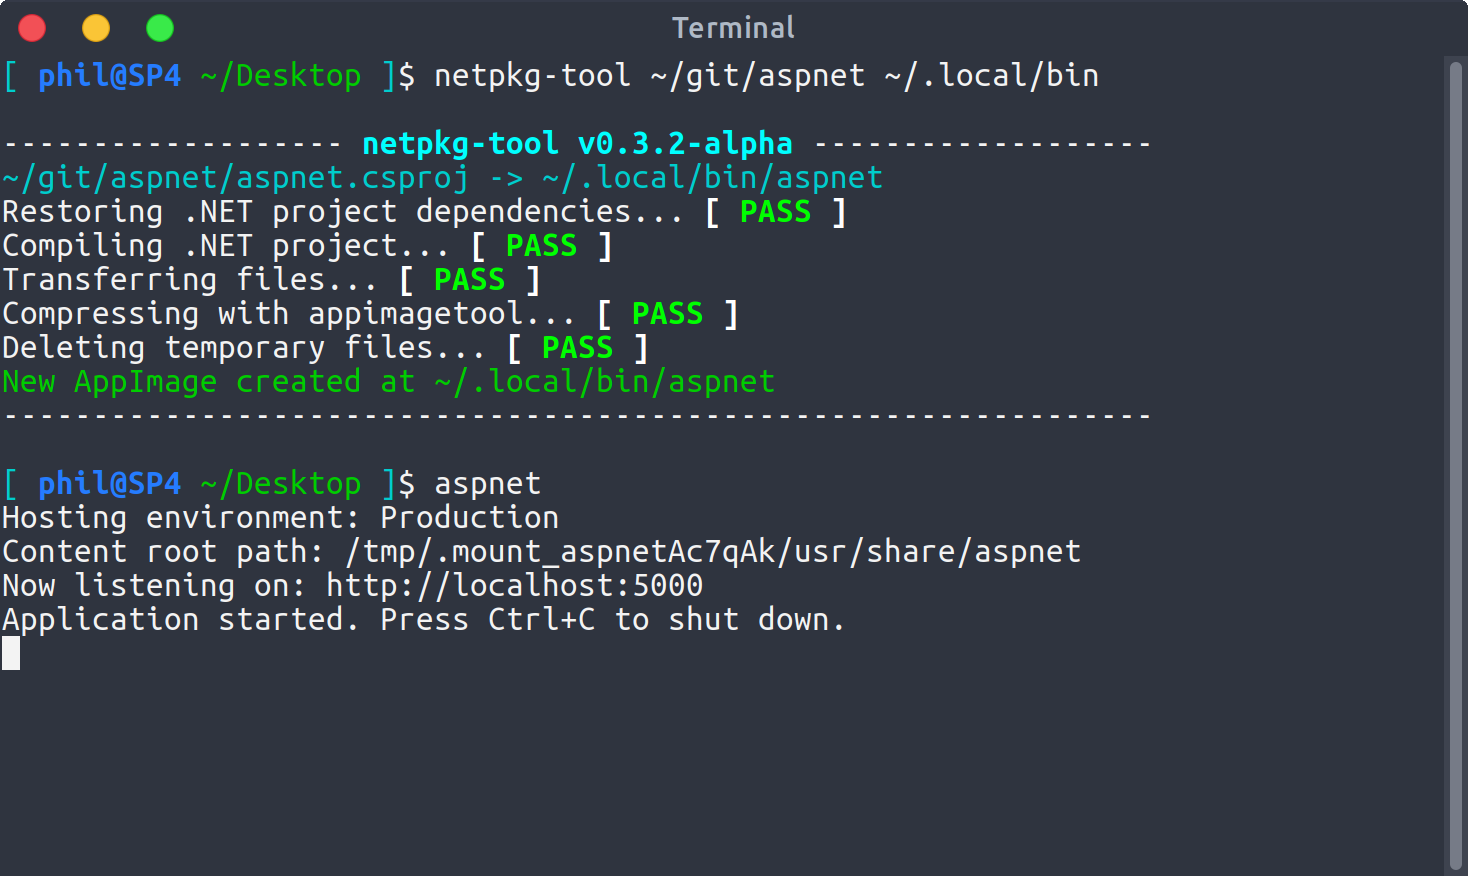
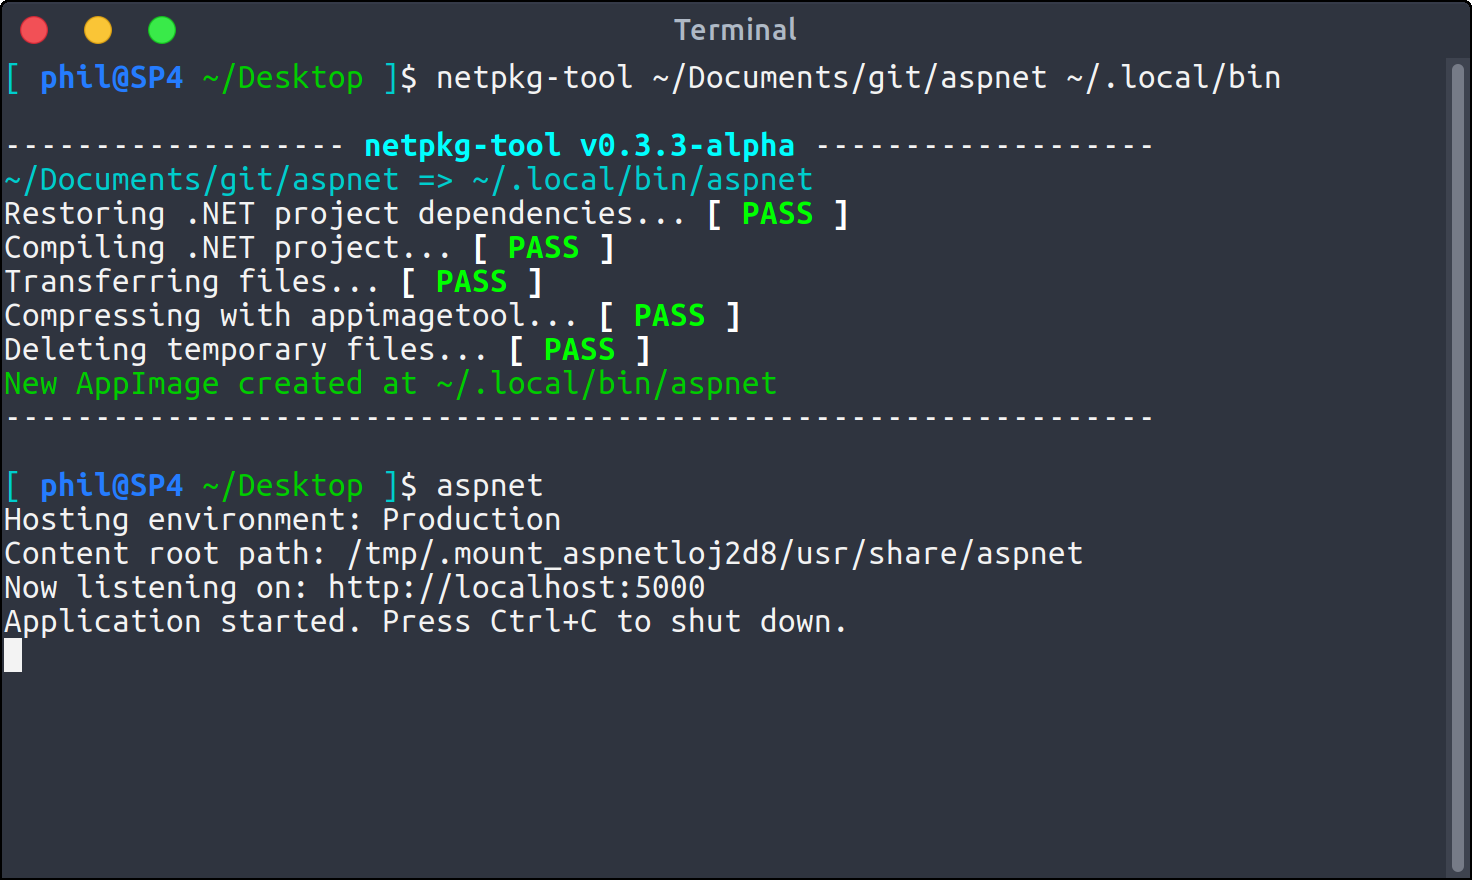
Fix images

diff --git a/index.html b/index.html
@@ -13,6 +13,7 @@
 
   <!-- Ubuntu font CDN from Google -->
   <link href="https://fonts.googleapis.com/css?family=Ubuntu" rel="stylesheet">
+  <link href="https://fonts.googleapis.com/css?family=Ubuntu+Mono" rel="stylesheet">
 
   <!-- Reference Custom CSS -->
   <link rel="stylesheet" href="meta/style/css/main.css">
@@ -63,7 +64,7 @@
       <div class="container main-title">
         <h1>Package your .NET Core apps with ease</h1>
         <p></p>
-        <img src="meta/images/terminal2.png" class="main-img shadow"/> 
+        <img src="meta/images/aspnet-example.png" class="main-img shadow"/> 
       </div>
     </div>
   </div>
@@ -133,7 +134,7 @@
       </div>
 
       <div class="col-md-8 docs-panel">
-        <img src="meta/images/netpkg-tool.png" width="100%" class="shadow"/>
+        <img src="meta/images/help-menu.png" width="100%" class="shadow"/>
       </div>
 
     </div>
